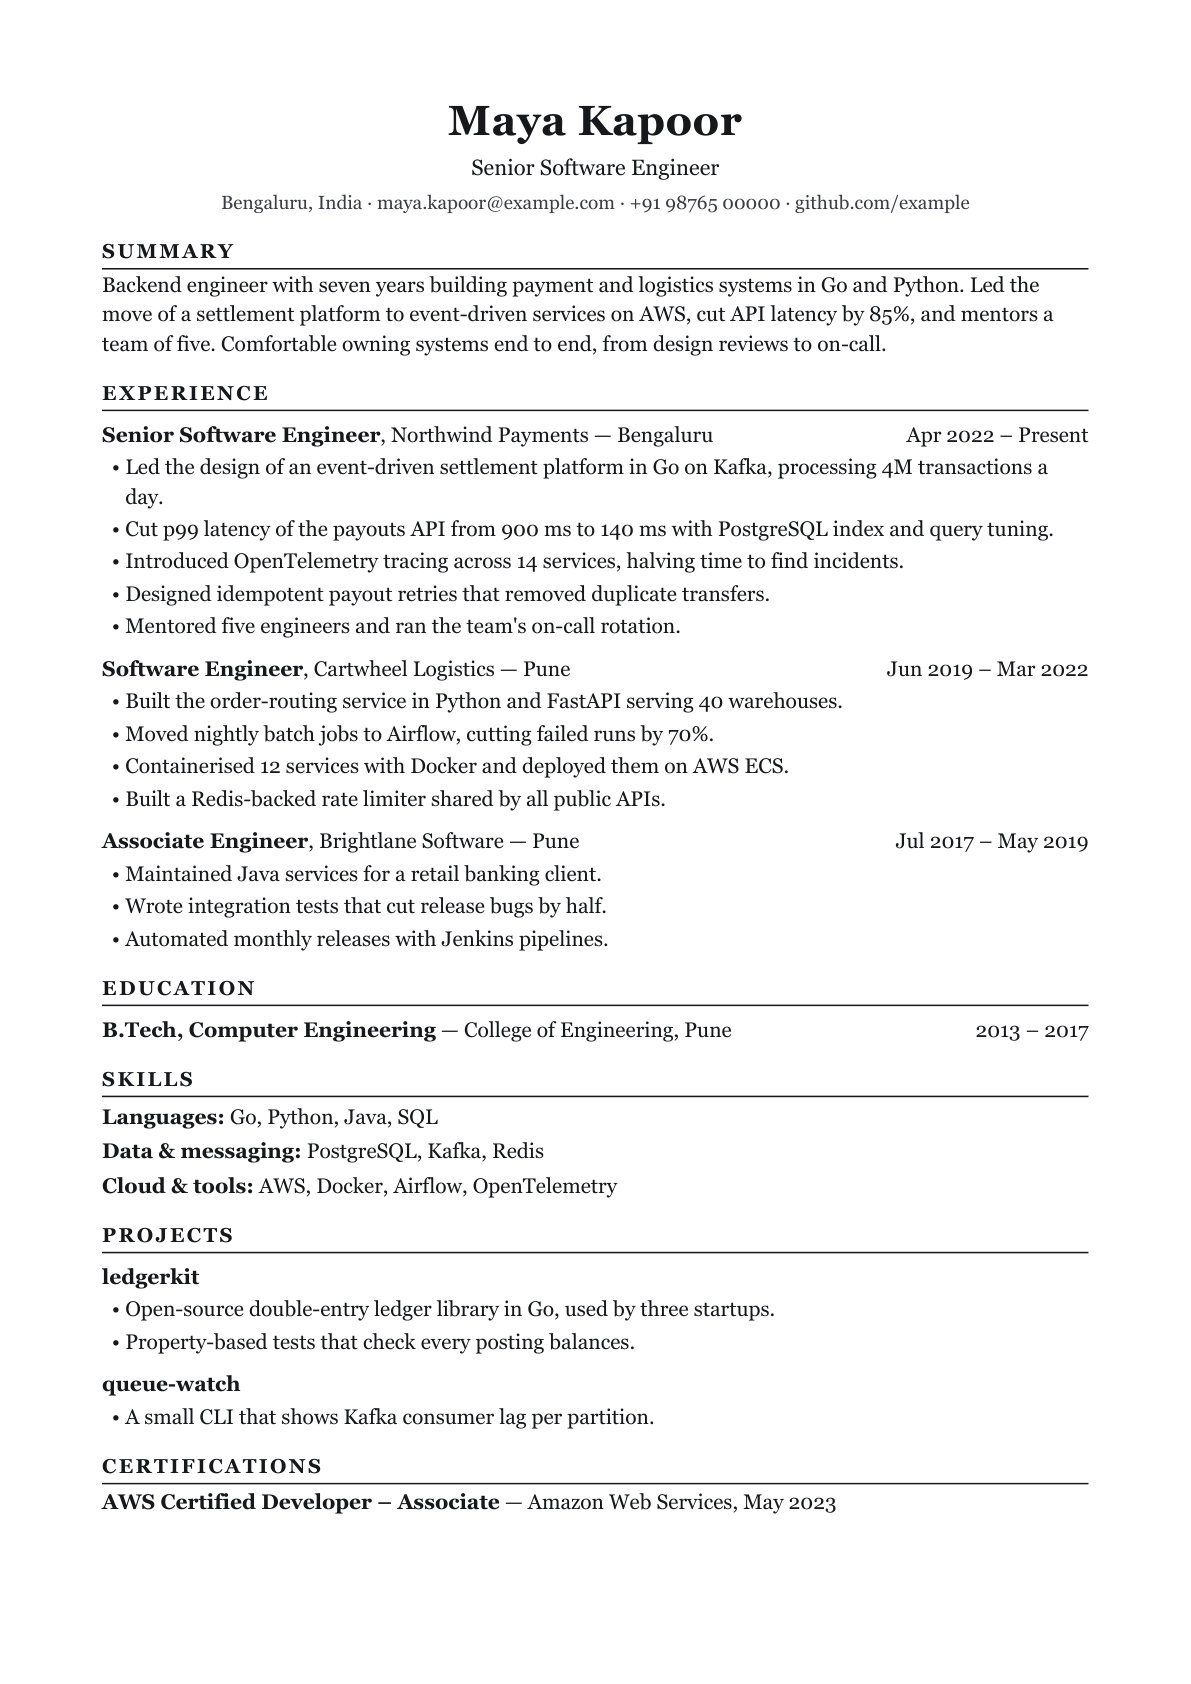
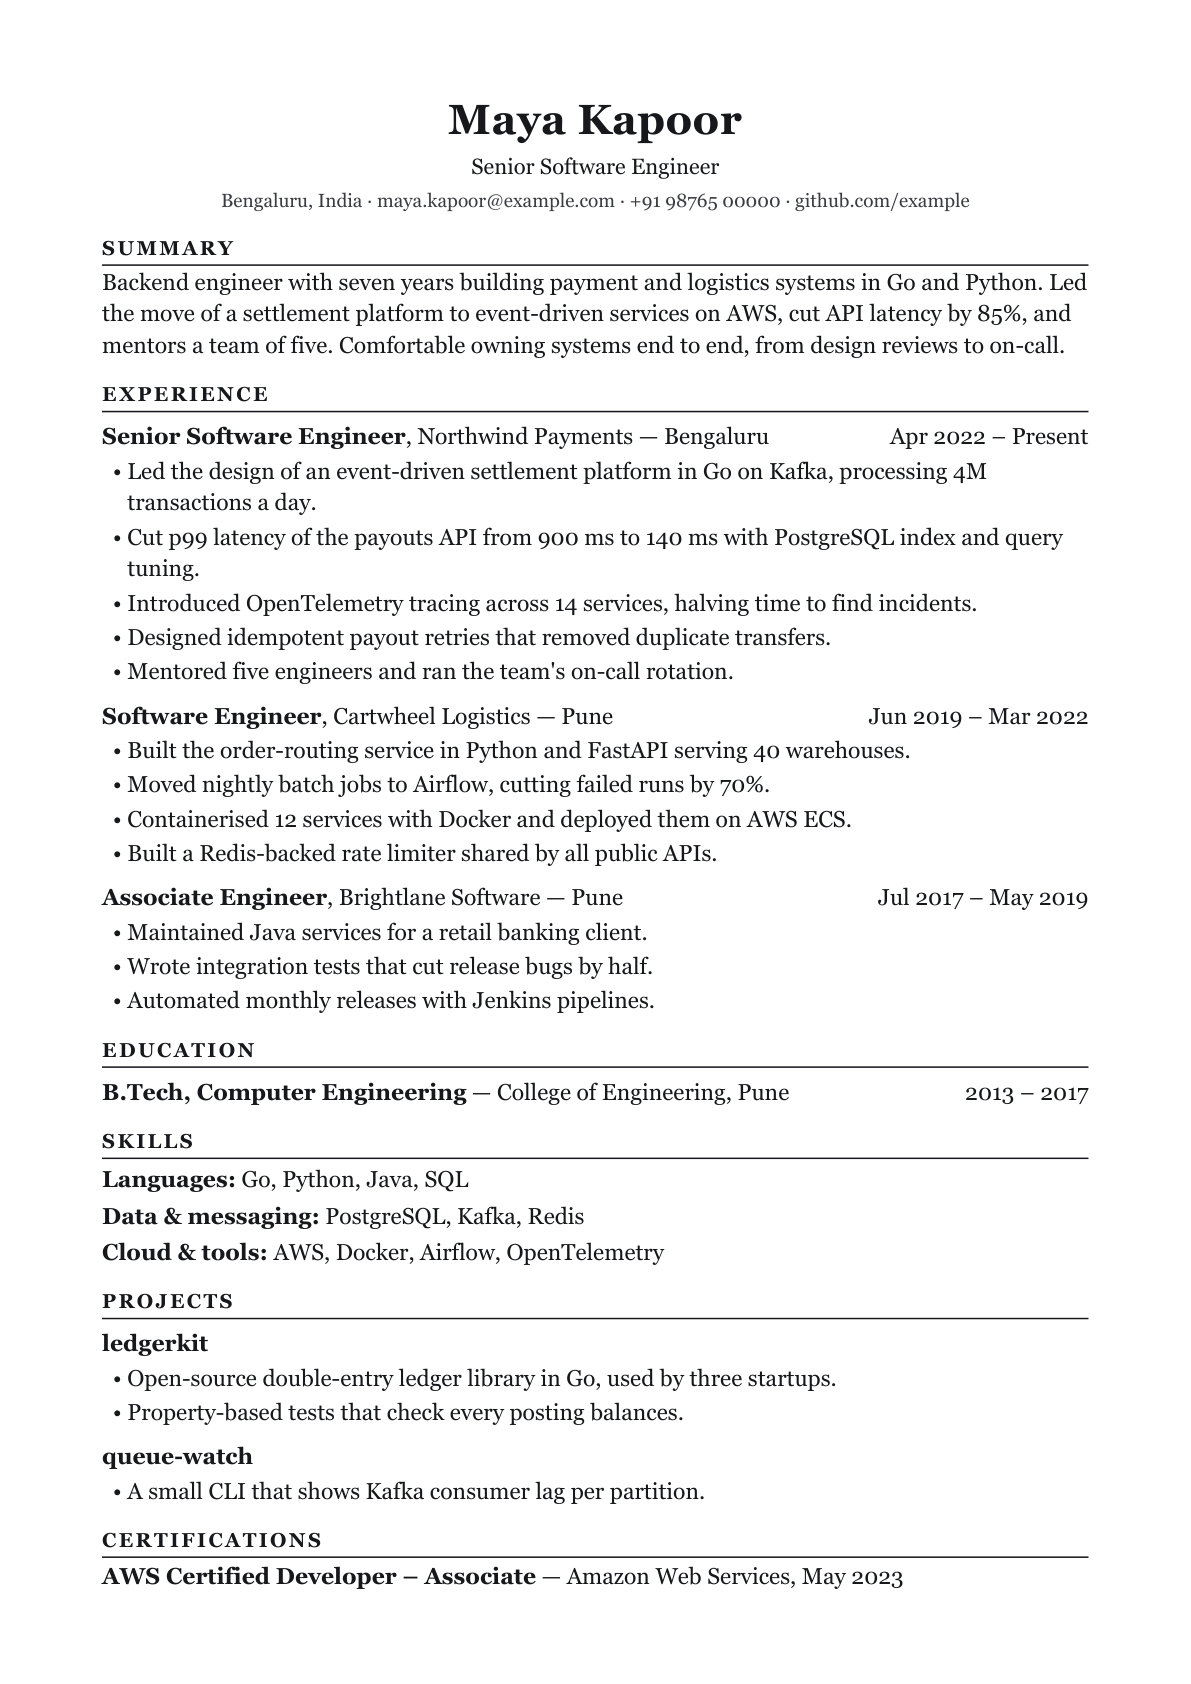
Fill the page to the bottom margin: larger text, then spacing, by search
Fill stopped at 2x spacing and then said "already full" on a page with a fifth
left empty. It now grows the body text (up to 1.2x) and then the spacing (up to
5x, line height capped at +15%), each the largest value that keeps the page
count, so the last line lands on the bottom margin. If that still can't fill
it, it says how full the page is.

diff --git a/apps/web/components/resume/fit-panel.tsx b/apps/web/components/resume/fit-panel.tsx
@@ -237,12 +237,14 @@ export function FitPanel({
         {layout.margins !== "normal" && (
           <p className="text-xs text-muted">The same on all four sides.</p>
         )}
-        {layout.spacing && layout.spacing > 1 && (
-          <p className="flex items-center gap-2 text-xs text-muted">
-            Spacing {layout.spacing.toFixed(2).replace(/0$/, "")}× to fill the page.
+        {((layout.spacing ?? 1) > 1 || (layout.font_scale ?? 1) > 1) && (
+          <p className="flex flex-wrap items-center gap-x-2 text-xs text-muted">
+            Stretched to fill the page:
+            {(layout.font_scale ?? 1) > 1 && ` text ${Math.round(((layout.font_scale ?? 1) - 1) * 100)}% larger,`}
+            {(layout.spacing ?? 1) > 1 && ` spacing ${(layout.spacing ?? 1).toFixed(1)}×.`}
             <button
               type="button"
-              onClick={() => actions.setLayout((l) => ({ ...l, spacing: null }))}
+              onClick={() => actions.setLayout((l) => ({ ...l, spacing: null, font_scale: null }))}
               className="text-accent underline-offset-2 hover:underline"
             >
               Reset

diff --git a/apps/web/lib/api.ts b/apps/web/lib/api.ts
@@ -180,8 +180,10 @@ export type Layout = {
   pages: number | null;
   /** The order sections appear in; null for the usual one (SECTIONS). */
   order: Section[] | null;
-  /** Room between sections and lines, × the usual (1–2); set by "fill the page". */
+  /** Set by "fill the page": room between sections and lines (× the usual, 1–5), and
+   * body text size (× the template's, 1–1.2). */
   spacing?: number | null;
+  font_scale?: number | null;
 };
 
 /** The usual section order (backend/app/schemas/layout.py). */

diff --git a/backend/app/services/fit.py b/backend/app/services/fit.py
@@ -402,7 +402,26 @@ def fit_to_pages(
 # lines grow until the last page is full. Margins are the person's choice: left alone.
 
 FULL = 0.93  # a last page this full is done
-_SPACINGS = [1.15, 1.3, 1.45, 1.6, 1.8, 2.0]
+MAX_FONT_SCALE = 1.2
+MAX_SPACING = 5.0
+
+
+def _largest(resume, layout: Layout, field: str, low: float, high: float, fits, rounds: int = 6):
+    """The largest `field` in (low, high] that keeps the pages, by halving: (layout,
+    pages, fill), or None if even a little more doesn't fit."""
+    best = None
+    ok, p, f = fits(resume, layout.model_copy(update={field: high}))
+    if ok:
+        return layout.model_copy(update={field: high}), p, f
+    for _ in range(rounds):
+        mid = round((low + high) / 2, 3)
+        trial = layout.model_copy(update={field: mid})
+        ok, p, f = fits(resume, trial)
+        if ok:
+            best, low = (trial, p, f), mid
+        else:
+            high = mid
+    return best
 
 
 def _fill(resume: ResumeData, slug: str, layout: Layout) -> tuple[int, float]:
@@ -514,23 +533,28 @@ def fill_page(
                 resume, pages, fill = trial, p, f
                 steps.append("Wrote a longer summary from what's in your resume.")
 
-    # 3. More room between sections, entries and lines.
+    # 3. Slightly larger text, then more room between sections, entries and lines: each
+    # the most that keeps the pages, so the last line sits on the bottom margin.
     if fill < FULL:
-        best = None
-        for spacing in _SPACINGS:
-            if spacing <= (layout.spacing or 1):
-                continue
-            trial = layout.model_copy(update={"spacing": spacing})
-            ok, p, f = fits(resume, trial)
-            if not ok:
-                break
-            best, pages, fill = trial, p, f
+        for field, top, step in (
+            ("font_scale", MAX_FONT_SCALE, "Made the text a little larger."),
+            ("spacing", MAX_SPACING, "Spaced sections and lines out to use the whole page."),
+        ):
             if fill >= FULL:
                 break
-        if best:
-            layout = best
-            steps.append("Spaced sections and lines out to use the whole page.")
+            low = getattr(layout, field) or 1.0
+            if low >= top:
+                continue
+            found = _largest(resume, layout, field, low, top, fits)
+            if found:
+                layout, pages, fill = found
+                steps.append(step)
 
-    if not steps:
+    if fill < FULL:
+        steps.append(
+            f"The last page is {fill:.0%} full: that's as far as the layout can stretch. "
+            "Add lines (yours left out, or new ones in your profile) to fill the rest."
+        )
+    elif not steps:
         steps.append("The page is already full.")
     return FitResult(resume, layout, provenance, before, pages, steps)

diff --git a/backend/app/rendering/render.py b/backend/app/rendering/render.py
@@ -120,6 +120,11 @@ def _margin_css(mm: int) -> str:
     return f"@page {{ margin: {mm}mm; }}\n@media screen {{ .page {{ padding: {mm}mm; }} }}\n"
 
 
+def _font_size(slug: str) -> float:
+    found = re.search(r"body\s*{[^}]*font-size:\s*([\d.]+)pt", _css(f"{slug}.css"))
+    return float(found.group(1)) if found else 10.0
+
+
 def _line_height(slug: str) -> float:
     found = re.search(r"body\s*{[^}]*line-height:\s*([\d.]+)", _css(f"{slug}.css"))
     return float(found.group(1)) if found else 1.35
@@ -127,7 +132,7 @@ def _line_height(slug: str) -> float:
 
 def _spacing_css(s: float, slug: str) -> str:
     """base.css's gaps, `s` times over: more room between sections, entries and lines,
-    and a little more between the lines of text (up to 12% at the most spacing)."""
+    and a little more between the lines of text (at most 15% more)."""
     gaps = {
         ".head": ("margin-bottom", 0.9),
         ".section": ("margin-top", 0.85),
@@ -137,7 +142,8 @@ def _spacing_css(s: float, slug: str) -> str:
         ".skills p": ("margin-top", 0.2),
     }
     css = " ".join(f"{sel} {{ {prop}: {em * s:.3f}em; }}" for sel, (prop, em) in gaps.items())
-    leading = _line_height(slug) * (1 + 0.12 * (s - 1))
+    # Lines of one bullet stay close: their leading grows a little, the gaps the rest.
+    leading = _line_height(slug) * (1 + min(0.15, 0.12 * (s - 1)))
     return css + f" li {{ margin: {0.12 * s:.3f}em 0; }} body {{ line-height: {leading:.3f}; }}\n"
 
 
@@ -148,6 +154,8 @@ def _layout_css(layout: Layout, slug: str) -> Markup:
     elif layout.margins == "custom" and layout.margin_mm is not None:
         css = _margin_css(layout.margin_mm)
         css += _TIGHT_CSS if layout.margin_mm <= NARROW_MM else ""
+    if layout.font_scale and layout.font_scale > 1:
+        css += f"body {{ font-size: {_font_size(slug) * layout.font_scale:.2f}pt; }}\n"
     if layout.spacing and layout.spacing > 1:
         css += _spacing_css(layout.spacing, slug)
     return Markup(css)

diff --git a/backend/tests/test_fit.py b/backend/tests/test_fit.py
@@ -354,6 +354,7 @@ def test_layout_is_saved_and_used_for_the_preview(client, auth, resume):
         "margin_mm": None,
         "hidden_header": [],
         "spacing": None,
+        "font_scale": None,
     }
     html = client.get(f"/resumes/{resume['id']}/preview", headers=auth).json()["html"]
     assert "<h2>Summary</h2>" not in html
@@ -435,3 +436,19 @@ def test_a_merge_no_longer_in_the_resume_doesnt_hide_lines():
     result = fill_page(short, Layout(), "classic", PROFILE, JOB, StubProvider(), stale)
     lines = {b.id for e in result.resume.experience for b in e.bullets}
     assert {"b_kafka", "b_team"} <= lines
+
+
+def test_a_short_resume_is_filled_to_the_bottom_margin():
+    # Larger text first, then spacing: a short resume reaches its bottom margin.
+    # Half a page of content (54%) to begin with.
+    result = fill_page(PROFILE, Layout(), "classic", PROFILE, JOB, StubProvider())
+    pages, fill = fit_service._fill(PROFILE, "classic", result.layout)
+    assert pages == 1 and fill >= fit_service.FULL
+    assert result.layout.font_scale and result.layout.font_scale > 1
+
+
+def test_fill_says_honestly_when_the_layout_cant_stretch_further():
+    tiny = _short(PROFILE).model_copy(update={"experience": _short(PROFILE).experience[:1]})
+    tiny = tiny.model_copy(update={"summary": "", "skills": [], "education": []})
+    result = fill_page(tiny, Layout(), "classic", tiny, JOB, StubProvider(), add_content=False)
+    assert any("as far as the layout can stretch" in s for s in result.steps)

diff --git a/backend/app/schemas/layout.py b/backend/app/schemas/layout.py
@@ -38,7 +38,10 @@ class Layout(BaseModel):
     order: list[Section] | None = None
     # Room between sections, entries and lines, as a multiple of the usual: set by
     # "fill the page" so a resume with room to spare uses its whole last page.
-    spacing: float | None = Field(default=None, ge=1.0, le=2.0)
+    spacing: float | None = Field(default=None, ge=1.0, le=5.0)
+    # The body text a little larger (×, up to 20%): "fill the page" tries this before
+    # spacing, so a short resume reads larger rather than full of gaps.
+    font_scale: float | None = Field(default=None, ge=1.0, le=1.2)
 
     @field_validator("order")
     @classmethod

diff --git a/plan.md b/plan.md
@@ -430,8 +430,12 @@ Each phase ends with passing tests and something runnable. Tick boxes as they la
 - [x] **Fill the page** (`fill_page` in `services/fit.py`; `Layout.spacing`). A resume with
       room on its last page uses it, never adding a page: (1) the person's own lines and
       projects left out of this resume come back, newest role first; (2) a longer
-      summary from the resume's facts (Fit only, not at creation); (3) more room between
-      sections, entries and lines, and up to 12% more line height (`spacing` 1–2×).
+      summary from the resume's facts (Fit only, not at creation); (3) slightly larger body
+      text (`font_scale` up to 1.2×), then more room between sections, entries and
+      lines (`spacing` up to 5×, line height at most +15%), each the largest value that
+      keeps the pages (found by halving), so the last line sits on the bottom margin.
+      When even that can't fill it, it says how full the page is and to add lines
+      (it used to say "already full" once spacing was maxed, on a page 80% full).
       Margins are the person's choice and aren't touched. Runs automatically when a
       resume is made or re-tailored, from "Fill the page" in the Fit panel, and after
       shortening to spread the remainder. Page fill is measured from WeasyPrint's line
